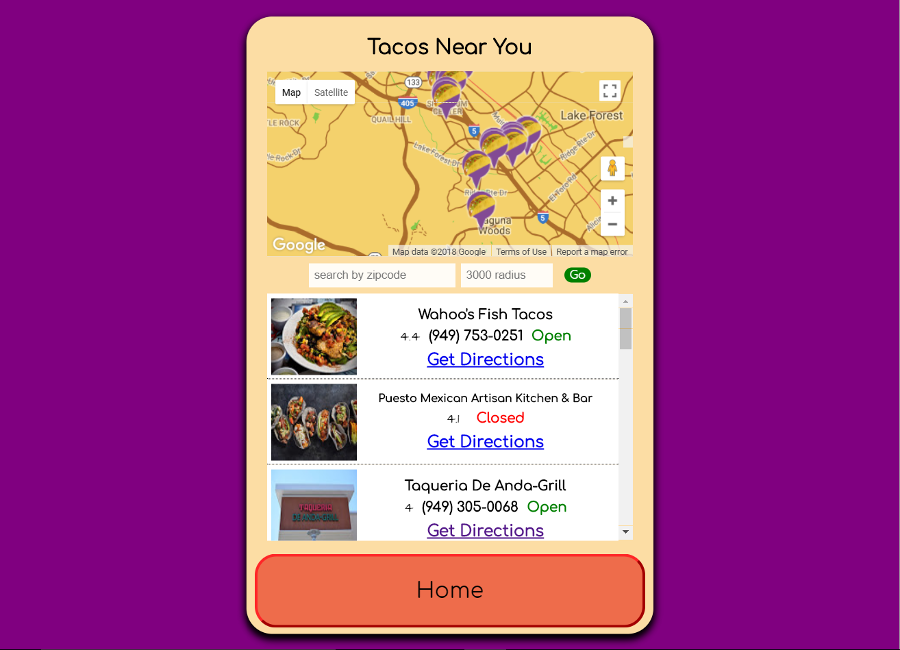
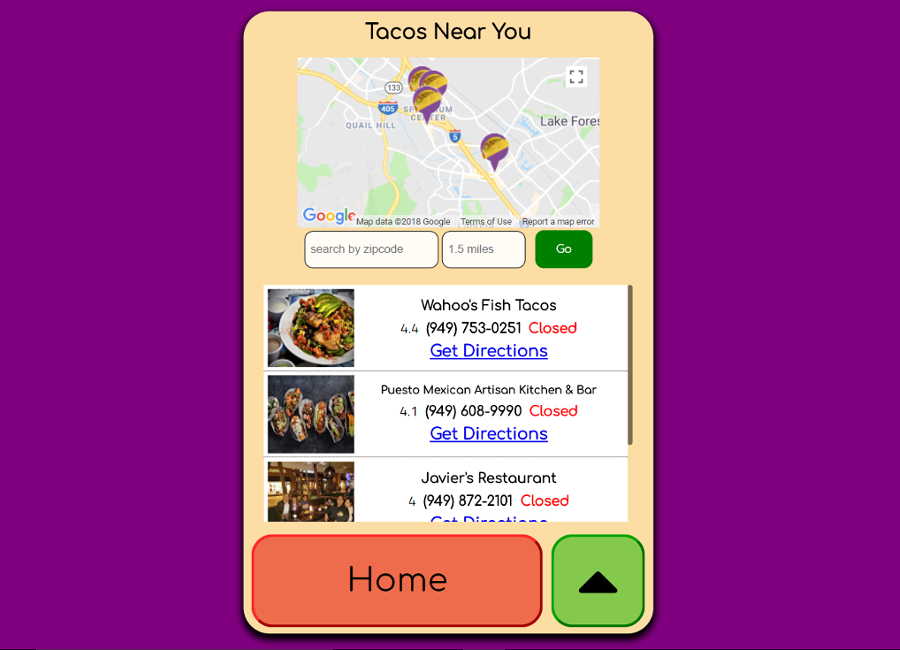
updated the tacobout it app images and cleared the old README

Changed region(s): [[0.2489, 0.0, 0.7156, 0.9846], [0.9956, 0.0, 1.0, 1.0], [0.7156, 0.0308, 0.7467, 0.0615]]

diff --git a/index.html b/index.html
@@ -111,7 +111,7 @@
           <a class="portfolio-item d-block mx-auto" href="#portfolio-modal-3">
             <div class="portfolio-item-caption d-flex position-absolute h-100 w-100">
               <div class="portfolio-item-caption-content my-auto w-100 text-center text-white">
-                <div class="portfolio-hover-text">Taco 'Bout It</div>
+                <div class="portfolio-hover-text">Taco'bout It</div>
                 <i class="fa fa-search-plus fa-3x"></i>
               </div>
             </div>
@@ -142,7 +142,7 @@
           <p class="lead">Web development has become as much of a part of me as my own two hands. I'm currently a student at LearningFuze, and have been discovering day after day all the excitement and joy one can have while programming. I'm looking forward to seeing where I can take all of this knowledge and apply it to more than just my career.</p>
         </div>
         <div class="col-lg-4 mr-auto">
-          <p class="lead">Outside of programming, I also love music. I listen to classical, metal, and everything in between. I like to play both the guitar and the bass guitar. But I'm first and foremost a singer.</p>
+          <p class="lead">Outside of programming, I also love music. I listen to classical, metal, and everything in between. I like to play both the guitar and the bass guitar, but I'm first and foremost a singer.</p>
           <p class="lead">I also love to eat ramen, pizza, and tacos. If I'm not programming or singing, I'm likely eating.</p>
         </div>
       </div>
@@ -243,7 +243,7 @@
         </div>
         <div class="col-md-4">
           <h4 class="text-uppercase mb-4">Email: </h4>
-          <p class="lead mb-0">jeffrey@paufamily.com</p>
+          <p class="lead mb-0"><a href="mailto:jeffrey@paufamily.com" target="_top">jeffrey@paufamily.com</a></p>
         </div>
       </div>
     </div>
@@ -312,9 +312,9 @@
       <div class="container text-center">
         <div class="row">
           <div class="col-lg-8 mx-auto">
-            <h2 class="text-secondary text-uppercase mb-0">Taco 'Bout It</h2>
+            <h2 class="text-secondary text-uppercase mb-0">Taco'bout It</h2>
             <hr class="circle-dark mb-5">
-            <img class="img-fluid mb-5" src="img/portfolio/tacoboutit1.png" alt="">
+            <img class="img-fluid mb-5" src="img/portfolio/tacoboutit2.png" alt="">
             <p class="portfolio-links"><a href="/apps/tacoboutit" target="_blank">Live</a> | <a href="#" target="_blank">GitHub</a></p>
             <p class="mb-5">Are you in the mood for a taco? Want to busy yourself throwing together the ingrediants? Or maybe you'd rather find a taco restaurant near you. This app combines taco recipes and taco location search into one mobile app.</p>
             <a class="btn btn-primary btn-lg rounded-pill portfolio-modal-dismiss" href="#">

diff --git a/README.md b/README.md
@@ -1,71 +1,1 @@
-# [Start Bootstrap - Freelancer](https://startbootstrap.com/template-overviews/freelancer/)
-
-[Freelancer](http://startbootstrap.com/template-overviews/freelancer/) is a one page freelancer portfolio theme for [Bootstrap](http://getbootstrap.com/) created by [Start Bootstrap](http://startbootstrap.com/). This theme features several content sections, a responsive portfolio grid with hover effects, full page portfolio item modals, and a working PHP contact form.
-
-## Preview
-
-[![Freelancer Preview](https://startbootstrap.com/assets/img/templates/freelancer.jpg)](https://blackrockdigital.github.io/startbootstrap-freelancer/)
-
-**[View Live Preview](https://blackrockdigital.github.io/startbootstrap-freelancer/)**
-
-## Status
-
-[![GitHub license](https://img.shields.io/badge/license-MIT-blue.svg)](https://raw.githubusercontent.com/BlackrockDigital/startbootstrap-freelancer/master/LICENSE)
-[![npm version](https://img.shields.io/npm/v/startbootstrap-freelancer.svg)](https://www.npmjs.com/package/startbootstrap-freelancer)
-[![Build Status](https://travis-ci.org/BlackrockDigital/startbootstrap-freelancer.svg?branch=master)](https://travis-ci.org/BlackrockDigital/startbootstrap-freelancer)
-[![dependencies Status](https://david-dm.org/BlackrockDigital/startbootstrap-freelancer/status.svg)](https://david-dm.org/BlackrockDigital/startbootstrap-freelancer)
-[![devDependencies Status](https://david-dm.org/BlackrockDigital/startbootstrap-freelancer/dev-status.svg)](https://david-dm.org/BlackrockDigital/startbootstrap-freelancer?type=dev)
-
-## Download and Installation
-
-To begin using this template, choose one of the following options to get started:
-* [Download the latest release on Start Bootstrap](https://startbootstrap.com/template-overviews/freelancer/)
-* Install via npm: `npm i startbootstrap-freelancer`
-* Clone the repo: `git clone https://github.com/BlackrockDigital/startbootstrap-freelancer.git`
-* [Fork, Clone, or Download on GitHub](https://github.com/BlackrockDigital/startbootstrap-freelancer)
-
-## Usage
-
-### Basic Usage
-
-After downloading, simply edit the HTML and CSS files included with the template in your favorite text editor to make changes. These are the only files you need to worry about, you can ignore everything else! To preview the changes you make to the code, you can open the `index.html` file in your web browser.
-
-### Advanced Usage
-
-After installation, run `npm install` and then run `gulp dev` which will open up a preview of the template in your default browser, watch for changes to core template files, and live reload the browser when changes are saved. You can view the `gulpfile.js` to see which tasks are included with the dev environment.
-
-#### Gulp Tasks
-
-- `gulp` the default task that builds everything
-- `gulp dev` browserSync opens the project in your default browser and live reloads when changes are made
-- `gulp sass` compiles SCSS files into CSS
-- `gulp minify-css` minifies the compiled CSS file
-- `gulp minify-js` minifies the themes JS file
-- `gulp copy` copies dependencies from node_modules to the vendor directory
-
-## Bugs and Issues
-
-Have a bug or an issue with this template? [Open a new issue](https://github.com/BlackrockDigital/startbootstrap-freelancer/issues) here on GitHub or leave a comment on the [template overview page at Start Bootstrap](http://startbootstrap.com/template-overviews/freelancer/).
-
-## Custom Builds
-
-You can hire Start Bootstrap to create a custom build of any template, or create something from scratch using Bootstrap. For more information, visit the **[custom design services page](https://startbootstrap.com/bootstrap-design-services/)**.
-
-## About
-
-Start Bootstrap is an open source library of free Bootstrap templates and themes. All of the free templates and themes on Start Bootstrap are released under the MIT license, which means you can use them for any purpose, even for commercial projects.
-
-* https://startbootstrap.com
-* https://twitter.com/SBootstrap
-
-Start Bootstrap was created by and is maintained by **[David Miller](http://davidmiller.io/)**, Owner of [Blackrock Digital](http://blackrockdigital.io/).
-
-* http://davidmiller.io
-* https://twitter.com/davidmillerskt
-* https://github.com/davidtmiller
-
-Start Bootstrap is based on the [Bootstrap](http://getbootstrap.com/) framework created by [Mark Otto](https://twitter.com/mdo) and [Jacob Thorton](https://twitter.com/fat).
-
-## Copyright and License
-
-Copyright 2013-2017 Blackrock Digital LLC. Code released under the [MIT](https://github.com/BlackrockDigital/startbootstrap-freelancer/blob/gh-pages/LICENSE) license.
+# [Jeffrey Pau Portfolio](https://jeffreypau.io)
